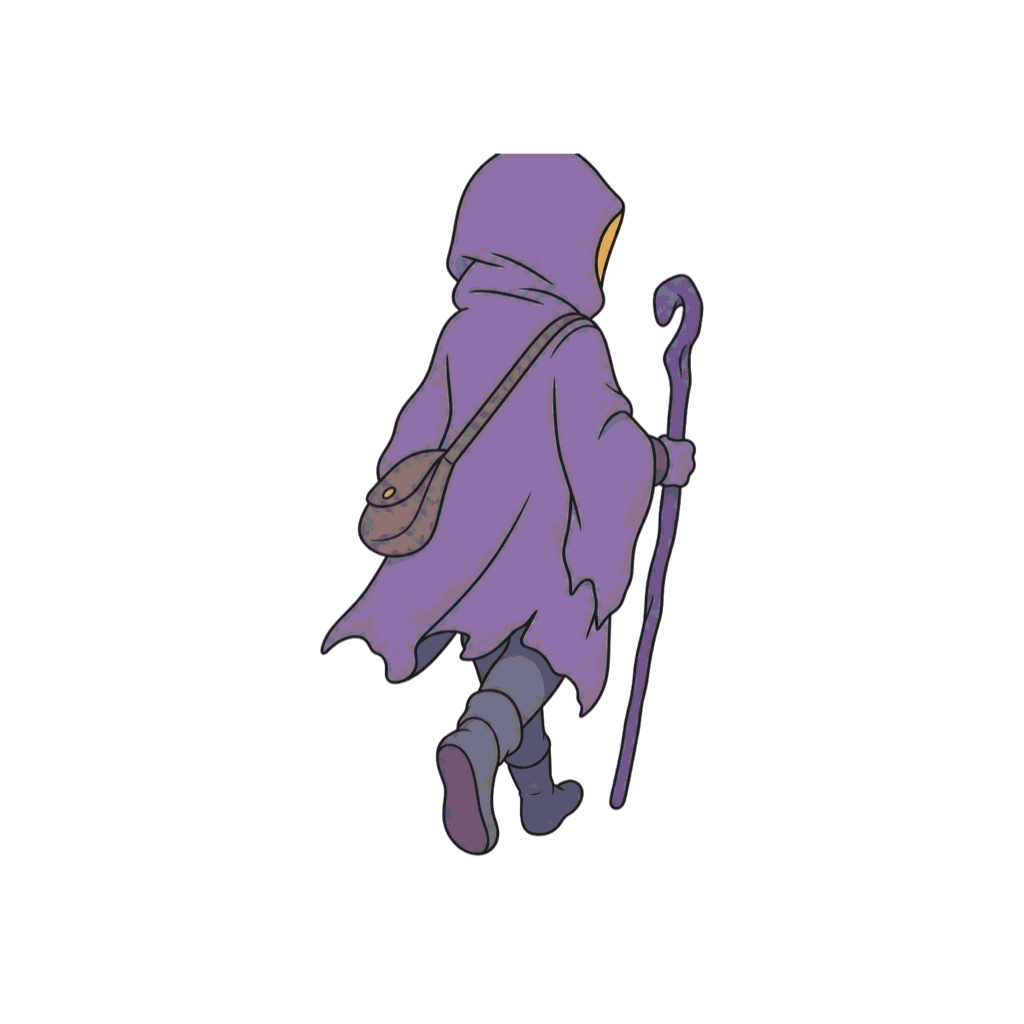
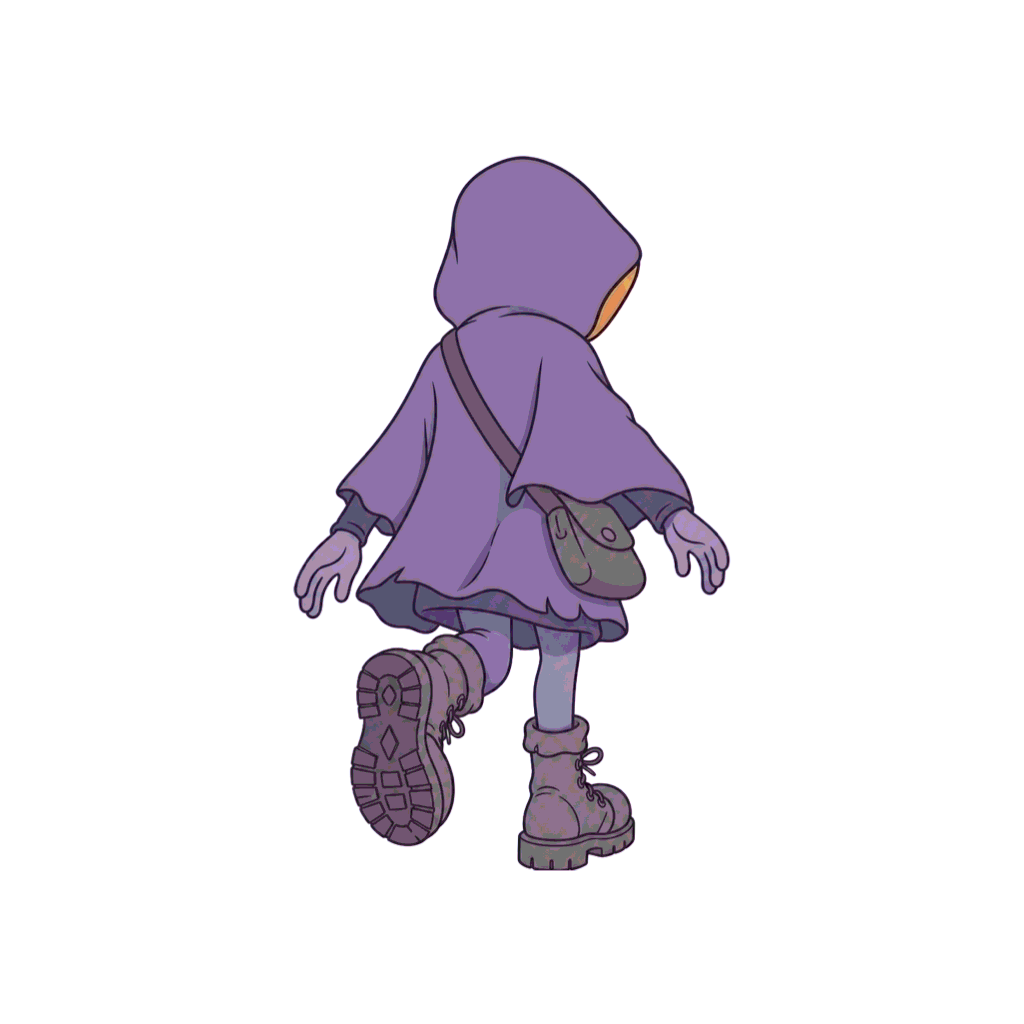
feat: 主人公の武器を靴にし、戦闘の立ち絵を左右に並べた
武器は靴。歩数だけが怠惰を打ち破る資源（§1）である以上、
手に持つ武器を与えると「歩いて強くなる」筋が切れる。
装備名を「目覚めの杖」から「目覚めの靴」に変え、主人公のアートから
杖を外して厚底のブーツを描き込んだ。この力を「ウォーク力」と呼ぶ。
用語はコピーとしてだけ使い、攻撃力の表示は「攻」のまま。

Equipment.name も保存データに焼き付いているので、既に持っている装備は
コードを直しても「杖」のまま残る。名前はマスターデータから完全に導けるため、
読み込みのたびに引き直す（refreshingEquipmentNames）。
EquipmentSlot.weapon の内部名は装備 ID に入っているので変えていない。

戦闘は上下配置から左右配置へ。主人公が左、ダルモンが右で、
主人公は右へ歩いていく絵なので進む先に敵がいることになる。
踏み込みと後退も x 方向に変えた。左右に並べると使える幅が半分になるため、
立ち絵は高さだけでなく幅も縛っている（横長のマドロミがはみ出すため）。

Changed region(s): [[0.2812, 0.125, 0.7188, 0.875]]

diff --git a/WalkUP/UI/BattleView.swift b/WalkUP/UI/BattleView.swift
@@ -48,10 +48,19 @@ struct BattleView: View {
         ZStack {
             RegionBackdrop(chapter: session.chapter)
 
-            VStack(spacing: 20) {
-                enemyPane
+            VStack(spacing: 16) {
+                enemyHeader
                 Spacer(minLength: 0)
-                playerPane
+                // **主人公は左、ダルモンは右。** 主人公は右へ歩いていく絵なので、
+                // 左に置くと進む先に敵がいることになり、踏み込みの向きと絵が噛み合う。
+                HStack(alignment: .bottom, spacing: 12) {
+                    playerPane
+                    enemyPane
+                }
+                // 下の余白は詰める。**上下均等に空けると2体が画面の上半分に寄り**、
+                // 背景の道路だけが広く残って、立っている場所が宙に浮いて見える。
+                Spacer(minLength: 0).frame(maxHeight: 40)
+                playerFooter
             }
             .padding(20)
             // 画面全体を揺らす。個々の要素ではなく画面が動くと衝撃が伝わる。
@@ -71,8 +80,8 @@ struct BattleView: View {
 
     // MARK: - 敵
 
-    private var enemyPane: some View {
-        VStack(spacing: 12) {
+    private var enemyHeader: some View {
+        VStack(spacing: 10) {
             Text(session.enemy.name)
                 .font(session.enemy.isBoss ? .title3.bold() : .headline)
                 // 背景を暗く固定しているので、文字色も固定する。
@@ -80,72 +89,82 @@ struct BattleView: View {
                 .foregroundStyle(.white)
                 .shadow(color: .black.opacity(0.5), radius: 3, y: 1)
 
-            HStack(spacing: 8) {
-                MeterBar(value: Double(enemyHP) / Double(max(1, session.enemy.hp)), tint: Theme.danger)
-                Text("\(max(0, enemyHP))")
-                    .font(.caption.monospacedDigit())
-                    .foregroundStyle(.white.opacity(0.85))
-                    .shadow(color: .black.opacity(0.5), radius: 2)
-                    .frame(width: 44, alignment: .trailing)
-            }
-            .frame(maxWidth: 280)
-
-            ZStack {
-                DarumonPortrait(enemy: session.enemy)
-                    // 画像は正方キャンバスで、絵の縦幅は個体の形で変わる。
-                    // **マドロミのような横長のボスは高さ指定だと縮んで見える**ので、
-                    // ボスは雑魚の 1.8 倍まで上げて威圧感を確保する。
-                    .frame(height: session.enemy.isBoss ? 310 : 170)
-                    .brightness(flash == .enemy ? 0.5 : 0)
-                    .modifier(IdleBob(active: !enemyDefeated))
-                    // 攻撃時は前へ、被弾時は後ろへ。
-                    .offset(
-                        y: (lunge == .enemy ? 22 : 0) + (recoil == .enemy ? -14 : 0)
-                    )
-                    // 撃破は「崩れ落ちる」。倒れて縮んで消える。
-                    .rotationEffect(.degrees(enemyDefeated ? 78 : 0), anchor: .bottom)
-                    .scaleEffect(enemyDefeated ? 0.72 : 1, anchor: .bottom)
-                    .opacity(enemyDefeated ? 0 : 1)
-
-                if let damage = floatingDamage, damage.side == .enemy {
-                    DamageNumber(amount: damage.amount, tint: Theme.danger)
-                        .id(damage.id)
-                }
-            }
-            .frame(height: 220)
+            meter(
+                value: Double(enemyHP) / Double(max(1, session.enemy.hp)),
+                remaining: enemyHP,
+                tint: Theme.danger
+            )
         }
+    }
+
+    private var enemyPane: some View {
+        ZStack {
+            DarumonPortrait(enemy: session.enemy)
+                // **左右に並べると使える幅が半分になる。** 高さだけを決めると
+                // マドロミのような横長の個体が主人公側にはみ出すので、幅も縛る。
+                .frame(maxWidth: portraitWidth, maxHeight: session.enemy.isBoss ? 250 : 175)
+                .brightness(flash == .enemy ? 0.5 : 0)
+                .modifier(IdleBob(active: !enemyDefeated))
+                // 攻撃時は相手（左）へ、被弾時は後ろ（右）へ。
+                .offset(
+                    x: (lunge == .enemy ? -26 : 0) + (recoil == .enemy ? 16 : 0)
+                )
+                // 撃破は「崩れ落ちる」。主人公とは反対側へ倒す。
+                .rotationEffect(.degrees(enemyDefeated ? 78 : 0), anchor: .bottom)
+                .scaleEffect(enemyDefeated ? 0.72 : 1, anchor: .bottom)
+                .opacity(enemyDefeated ? 0 : 1)
+
+            if let damage = floatingDamage, damage.side == .enemy {
+                DamageNumber(amount: damage.amount, tint: Theme.danger)
+                    .id(damage.id)
+            }
+        }
+        .frame(maxWidth: .infinity, minHeight: 250, alignment: .bottom)
     }
 
     // MARK: - 主人公
 
     private var playerPane: some View {
-        VStack(spacing: 12) {
-            ZStack {
-                HeroPortrait()
-                    .frame(height: 150)
-                    .brightness(flash == .player ? 0.5 : 0)
-                    .offset(
-                        y: (lunge == .player ? -22 : 0) + (recoil == .player ? 14 : 0)
-                    )
+        ZStack {
+            HeroPortrait()
+                .frame(maxWidth: portraitWidth, maxHeight: 175)
+                .brightness(flash == .player ? 0.5 : 0)
+                // 攻撃時は相手（右）へ、被弾時は後ろ（左）へ。
+                .offset(
+                    x: (lunge == .player ? 26 : 0) + (recoil == .player ? -16 : 0)
+                )
 
-                if let damage = floatingDamage, damage.side == .player {
-                    DamageNumber(amount: damage.amount, tint: Theme.danger)
-                        .id(damage.id)
-                }
+            if let damage = floatingDamage, damage.side == .player {
+                DamageNumber(amount: damage.amount, tint: Theme.danger)
+                    .id(damage.id)
             }
-            .frame(height: 170)
-
-            HStack(spacing: 8) {
-                MeterBar(value: Double(playerHP) / Double(max(1, session.player.maxHP)), tint: Theme.accent)
-                Text("\(max(0, playerHP))")
-                    .font(.caption.monospacedDigit())
-                    .foregroundStyle(.white.opacity(0.85))
-                    .shadow(color: .black.opacity(0.5), radius: 2)
-                    .frame(width: 44, alignment: .trailing)
-            }
-            .frame(maxWidth: 280)
         }
+        .frame(maxWidth: .infinity, minHeight: 250, alignment: .bottom)
     }
+
+    private var playerFooter: some View {
+        meter(
+            value: Double(playerHP) / Double(max(1, session.player.maxHP)),
+            remaining: playerHP,
+            tint: Theme.accent
+        )
+    }
+
+    /// HP バーと残量。敵と主人公で同じ形にして、左右のどちらの残量かを色で区別させる。
+    private func meter(value: Double, remaining: Int, tint: Color) -> some View {
+        HStack(spacing: 8) {
+            MeterBar(value: value, tint: tint)
+            Text("\(max(0, remaining))")
+                .font(.caption.monospacedDigit())
+                .foregroundStyle(.white.opacity(0.85))
+                .shadow(color: .black.opacity(0.5), radius: 2)
+                .frame(width: 44, alignment: .trailing)
+        }
+        .frame(maxWidth: 280)
+    }
+
+    /// 立ち絵1体あたりの幅。画面を左右で分けるので、片側はこれ以上広げられない。
+    private var portraitWidth: CGFloat { 168 }
 
     // MARK: - 再生
 

diff --git a/WalkUP/Game/GameState.swift b/WalkUP/Game/GameState.swift
@@ -149,6 +149,35 @@ extension GameState {
         return migrated
     }
 
+    /// 装備の表示名をマスターデータから引き直す。
+    ///
+    /// **`Equipment.name` は保存データに焼き付いている。** 入手した時点の名前が
+    /// そのまま残るので、`equipmentName()` を変えても既に持っている装備には効かない。
+    /// 武器を「杖」から「靴」に変えたとき（§1 の設計原理に合わせた）、
+    /// 既存プレイヤーの持ち物だけ「目覚めの杖」のまま残る状態になった。
+    ///
+    /// 名前は完全にマスターデータから導けるので、読み込みのたびに引き直せば済む。
+    /// 強化段階や装備状態には触らない。
+    func refreshingEquipmentNames() -> GameState {
+        var migrated = self
+        for index in migrated.equipment.indices {
+            let item = migrated.equipment[index]
+            guard let source = Self.masterEquipment(id: item.id) else { continue }
+            migrated.equipment[index].name = source.name
+        }
+        return migrated
+    }
+
+    /// `eq_ch{章}_{スロット}` からマスターデータの装備を引く。形式が合わなければ nil。
+    private static func masterEquipment(id: String) -> Equipment? {
+        let parts = id.split(separator: "_")
+        guard parts.count == 3, parts[0] == "eq",
+              let chapter = Int(parts[1].dropFirst(2)),
+              let slot = EquipmentSlot(rawValue: String(parts[2]))
+        else { return nil }
+        return MasterData.equipment(chapter: chapter, slot: slot)
+    }
+
     /// `zako_ch{章}_{役割}` を、その章で同じ役割を持つ最初の個体の ID に読み替える。
     /// 形式が合わなければそのまま返す（既に種別ベース、またはボス）。
     private static func modernBestiaryID(_ id: String) -> String {

diff --git a/WalkUP/UI/EquipmentView.swift b/WalkUP/UI/EquipmentView.swift
@@ -74,9 +74,18 @@ struct EquipmentView: View {
         let items = game.state.equipment.filter { $0.slot == slot }
         if !items.isEmpty {
             VStack(alignment: .leading, spacing: 10) {
-                Text(slotName(slot))
-                    .font(.caption)
-                    .foregroundStyle(.secondary)
+                VStack(alignment: .leading, spacing: 3) {
+                    Text(slotName(slot))
+                        .font(.caption)
+                        .foregroundStyle(.secondary)
+
+                    if let note = slotNote(slot) {
+                        Text(note)
+                            .font(.caption2)
+                            .foregroundStyle(.secondary)
+                            .fixedSize(horizontal: false, vertical: true)
+                    }
+                }
 
                 ForEach(items) { item in
                     equipmentRow(item)
@@ -151,9 +160,18 @@ struct EquipmentView: View {
 
     private func slotName(_ slot: EquipmentSlot) -> String {
         switch slot {
-        case .weapon: return "武器"
+        case .weapon: return "武器 — 靴"
         case .armor: return "防具"
         case .accessory: return "装飾"
+        }
+    }
+
+    /// 武器が靴であることの説明。**この設定は放っておくと伝わらない。**
+    /// 「武器」の欄に靴が並ぶ理由が分かるのは、ここに一行あるときだけ。
+    private func slotNote(_ slot: EquipmentSlot) -> String? {
+        switch slot {
+        case .weapon: return "この世界で武器になるのは踏み出す力——ウォーク力だけ。"
+        default: return nil
         }
     }
 }

diff --git a/WalkUPTests/GameStateStoreTests.swift b/WalkUPTests/GameStateStoreTests.swift
@@ -125,6 +125,27 @@ struct GameStateStoreTests {
         #expect(migrated.bestiary[0].firstSeenAt == old)
     }
 
+    @Test("入手済みの装備の名前が、マスターデータから引き直される")
+    func refreshesEquipmentNames() throws {
+        let (store, directory) = try makeStore()
+        defer { try? FileManager.default.removeItem(at: directory) }
+
+        // 武器が「杖」だった頃に入手した装備。名前は保存データに焼き付いている。
+        var state = GameState()
+        state.equipment = [
+            Equipment(id: "eq_ch1_weapon", name: "目覚めの杖", slot: .weapon,
+                      hp: 0, atk: 7, def: 0, enhanceLevel: 3, isEquipped: true)
+        ]
+        try store.save(state)
+
+        let item = try #require(try store.load().equipment.first)
+        #expect(item.name == MasterData.equipment(chapter: 1, slot: .weapon).name)
+        #expect(item.name.hasSuffix("靴"))
+        // 強化段階と装備状態は触らない。
+        #expect(item.enhanceLevel == 3)
+        #expect(item.isEquipped)
+    }
+
     @Test("移行は繰り返し通しても結果が変わらない")
     func migrationIsIdempotent() throws {
         var state = GameState()

diff --git a/WalkUP/Game/MasterData.swift b/WalkUP/Game/MasterData.swift
@@ -262,10 +262,18 @@ enum MasterData {
         )
     }
 
+    /// 装備の表示名。
+    ///
+    /// **武器は靴。** 歩数だけが怠惰を打ち破る資源（§1）である以上、
+    /// 主人公が振るうのは足であって手に持つ物ではない。剣や杖を持たせると、
+    /// 「歩いた分だけ強くなる」という一本の筋がそこで切れる。
+    ///
+    /// `EquipmentSlot.weapon` という内部名は変えない。保存データの装備 ID
+    /// （`eq_ch1_weapon`）に入っているため、変えると既存の装備が消える。
     private static func equipmentName(chapter: Int, slot: EquipmentSlot) -> String {
         let tier = ["", "目覚めの", "抗いの", "灯火の"][min(chapter, 3)]
         switch slot {
-        case .weapon:    return "\(tier)杖"
+        case .weapon:    return "\(tier)靴"
         case .armor:     return "\(tier)外套"
         case .accessory: return "\(tier)護符"
         }

diff --git a/WalkUP/Game/GameStateStore.swift b/WalkUP/Game/GameStateStore.swift
@@ -49,6 +49,7 @@ struct GameStateStore {
         // 読み込みの直後に移行を通す。以降のコードは常に現行の形だけを見ればよい。
         return try decoder.decode(GameState.self, from: data)
             .migratingLegacyBestiaryIDs()
+            .refreshingEquipmentNames()
     }
 
     /// 保存する。

diff --git a/ART_PROMPTS.md b/ART_PROMPTS.md
@@ -424,15 +424,25 @@ STYLE SPEC (protagonist):
 
 ```
 CHARACTER: A small determined traveler seen from behind at a three-quarter
-angle, mid-stride, one foot lifted in a clear walking pose. Simple hooded
-travel cloak, a short staff in one hand, a satchel at the hip. The posture is
-upright and forward-leaning — the only figure in this world that is still
+angle, mid-stride, one foot lifted high in a clear walking pose so the thick
+SOLE of the lifted boot is turned toward the viewer. Simple hooded travel
+cloak and a satchel at the hip. BOTH HANDS ARE EMPTY — no staff, no stick,
+no weapon of any kind. The heavy walking boots are the most detailed part of
+the figure: thick treaded soles, visible laces, reinforced toes, worn from
+use. The cloak is cut short enough that both boots read clearly. The posture
+is upright and forward-leaning — the only figure in this world that is still
 moving. Face is not visible.
 Accent color: warm amber on the inner lining of the hood.
 ```
 
 **主人公だけは暖色のアクセントを使う。** ダルモンが全て寒色に沈んでいる中で、
 唯一動いている存在であることを色で示す。
+
+**武器は靴（2026-07-26 変更）。** 当初は「短い杖」を持たせていたが、
+歩くことが冒険になる（§1）という設計原理に対して、手に持つ武器は嘘になる。
+装備の武器スロットも「杖」から「靴」に変えてある。
+**靴が絵の中で最も描き込まれた部分になるよう指示している。** ここを普通の靴として
+描かれると、ただのフードの旅人に戻ってしまう。
 
 ---
 
